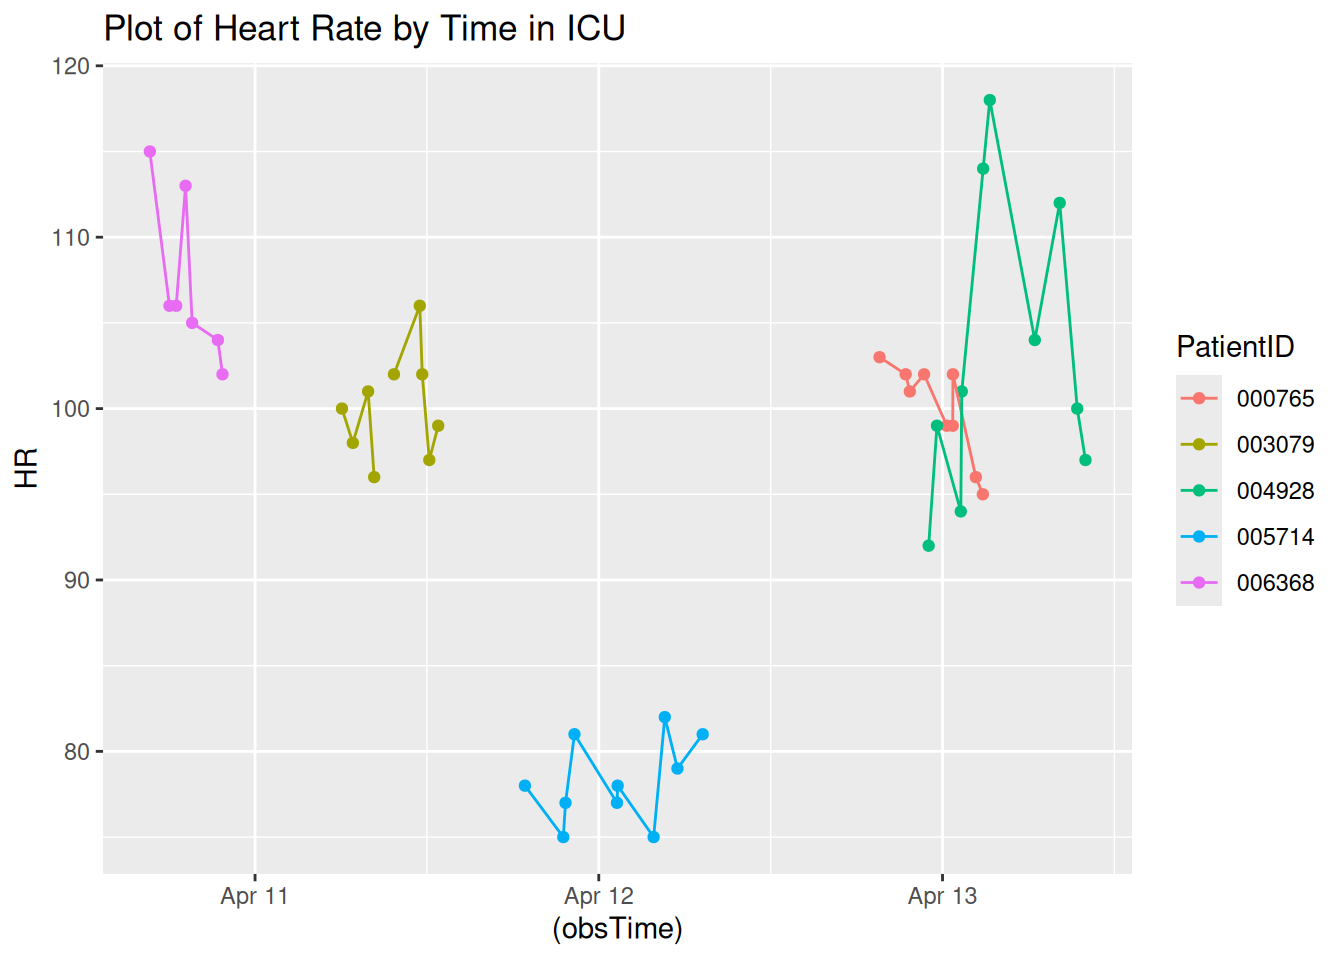
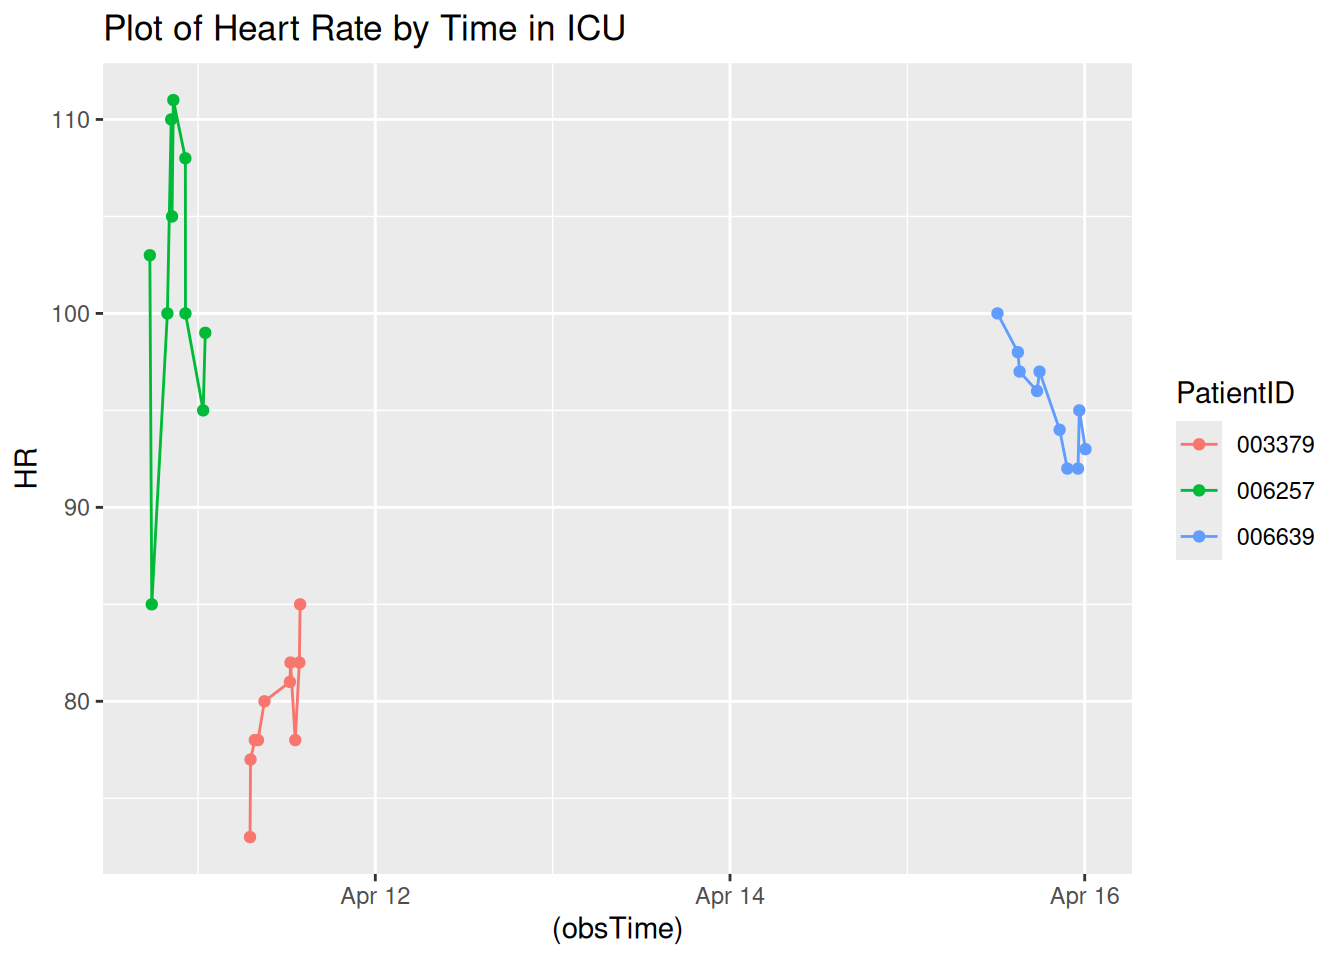
Updated report

diff --git a/A7.html b/A7.html
@@ -116,7 +116,7 @@ pre > code.sourceCode > span > a:first-child::before { text-decoration: underlin
 </div>
 <div class="sourceCode cell-code" id="cb4"><pre class="sourceCode r code-with-copy"><code class="sourceCode r"><span id="cb4-1"><a href="#cb4-1" aria-hidden="true" tabindex="-1"></a><span class="fu">toc</span>()</span></code><button title="Copy to Clipboard" class="code-copy-button"><i class="bi"></i></button></pre></div>
 <div class="cell-output cell-output-stdout">
-<pre><code>21.206 sec elapsed</code></pre>
+<pre><code>23.488 sec elapsed</code></pre>
 </div>
 <div class="sourceCode cell-code" id="cb6"><pre class="sourceCode r code-with-copy"><code class="sourceCode r"><span id="cb6-1"><a href="#cb6-1" aria-hidden="true" tabindex="-1"></a><span class="fu">tic</span>()</span>
 <span id="cb6-2"><a href="#cb6-2" aria-hidden="true" tabindex="-1"></a>test1<span class="ot">=</span><span class="fu">makeSepsisDataset</span>(<span class="at">n=</span><span class="dv">50</span>,<span class="at">read_fn =</span> <span class="st">"read_delim"</span>)</span>
@@ -126,7 +126,7 @@ pre > code.sourceCode > span > a:first-child::before { text-decoration: underlin
 </div>
 <div class="sourceCode cell-code" id="cb8"><pre class="sourceCode r code-with-copy"><code class="sourceCode r"><span id="cb8-1"><a href="#cb8-1" aria-hidden="true" tabindex="-1"></a><span class="fu">toc</span>()</span></code><button title="Copy to Clipboard" class="code-copy-button"><i class="bi"></i></button></pre></div>
 <div class="cell-output cell-output-stdout">
-<pre><code>20.615 sec elapsed</code></pre>
+<pre><code>20.689 sec elapsed</code></pre>
 </div>
 <div class="sourceCode cell-code" id="cb10"><pre class="sourceCode r code-with-copy"><code class="sourceCode r"><span id="cb10-1"><a href="#cb10-1" aria-hidden="true" tabindex="-1"></a><span class="co"># n=100</span></span>
 <span id="cb10-2"><a href="#cb10-2" aria-hidden="true" tabindex="-1"></a><span class="fu">tic</span>()</span>
@@ -137,7 +137,7 @@ pre > code.sourceCode > span > a:first-child::before { text-decoration: underlin
 </div>
 <div class="sourceCode cell-code" id="cb12"><pre class="sourceCode r code-with-copy"><code class="sourceCode r"><span id="cb12-1"><a href="#cb12-1" aria-hidden="true" tabindex="-1"></a><span class="fu">toc</span>()</span></code><button title="Copy to Clipboard" class="code-copy-button"><i class="bi"></i></button></pre></div>
 <div class="cell-output cell-output-stdout">
-<pre><code>40.403 sec elapsed</code></pre>
+<pre><code>38.612 sec elapsed</code></pre>
 </div>
 <div class="sourceCode cell-code" id="cb14"><pre class="sourceCode r code-with-copy"><code class="sourceCode r"><span id="cb14-1"><a href="#cb14-1" aria-hidden="true" tabindex="-1"></a><span class="fu">tic</span>()</span>
 <span id="cb14-2"><a href="#cb14-2" aria-hidden="true" tabindex="-1"></a>test1<span class="ot">=</span><span class="fu">makeSepsisDataset</span>(<span class="at">n=</span><span class="dv">100</span>,<span class="at">read_fn =</span> <span class="st">"read_delim"</span>)</span>
@@ -147,7 +147,7 @@ pre > code.sourceCode > span > a:first-child::before { text-decoration: underlin
 </div>
 <div class="sourceCode cell-code" id="cb16"><pre class="sourceCode r code-with-copy"><code class="sourceCode r"><span id="cb16-1"><a href="#cb16-1" aria-hidden="true" tabindex="-1"></a><span class="fu">toc</span>()</span></code><button title="Copy to Clipboard" class="code-copy-button"><i class="bi"></i></button></pre></div>
 <div class="cell-output cell-output-stdout">
-<pre><code>41.297 sec elapsed</code></pre>
+<pre><code>39.909 sec elapsed</code></pre>
 </div>
 <div class="sourceCode cell-code" id="cb18"><pre class="sourceCode r code-with-copy"><code class="sourceCode r"><span id="cb18-1"><a href="#cb18-1" aria-hidden="true" tabindex="-1"></a><span class="co"># n=500</span></span>
 <span id="cb18-2"><a href="#cb18-2" aria-hidden="true" tabindex="-1"></a><span class="fu">tic</span>()</span>
@@ -158,7 +158,7 @@ pre > code.sourceCode > span > a:first-child::before { text-decoration: underlin
 </div>
 <div class="sourceCode cell-code" id="cb20"><pre class="sourceCode r code-with-copy"><code class="sourceCode r"><span id="cb20-1"><a href="#cb20-1" aria-hidden="true" tabindex="-1"></a><span class="fu">toc</span>()</span></code><button title="Copy to Clipboard" class="code-copy-button"><i class="bi"></i></button></pre></div>
 <div class="cell-output cell-output-stdout">
-<pre><code>200.4 sec elapsed</code></pre>
+<pre><code>189.718 sec elapsed</code></pre>
 </div>
 <div class="sourceCode cell-code" id="cb22"><pre class="sourceCode r code-with-copy"><code class="sourceCode r"><span id="cb22-1"><a href="#cb22-1" aria-hidden="true" tabindex="-1"></a><span class="fu">tic</span>()</span>
 <span id="cb22-2"><a href="#cb22-2" aria-hidden="true" tabindex="-1"></a>test1<span class="ot">=</span><span class="fu">makeSepsisDataset</span>(<span class="at">n=</span><span class="dv">500</span>,<span class="at">read_fn =</span> <span class="st">"read_delim"</span>)</span>
@@ -168,7 +168,7 @@ pre > code.sourceCode > span > a:first-child::before { text-decoration: underlin
 </div>
 <div class="sourceCode cell-code" id="cb24"><pre class="sourceCode r code-with-copy"><code class="sourceCode r"><span id="cb24-1"><a href="#cb24-1" aria-hidden="true" tabindex="-1"></a><span class="fu">toc</span>()</span></code><button title="Copy to Clipboard" class="code-copy-button"><i class="bi"></i></button></pre></div>
 <div class="cell-output cell-output-stdout">
-<pre><code>207.36 sec elapsed</code></pre>
+<pre><code>199.828 sec elapsed</code></pre>
 </div>
 </div>
 <p><strong>Task 3</strong></p>
@@ -194,7 +194,7 @@ pre > code.sourceCode > span > a:first-child::before { text-decoration: underlin
 <span id="cb28-4"><a href="#cb28-4" aria-hidden="true" tabindex="-1"></a></span>
 <span id="cb28-5"><a href="#cb28-5" aria-hidden="true" tabindex="-1"></a><span class="fu">Sys.time</span>()</span></code><button title="Copy to Clipboard" class="code-copy-button"><i class="bi"></i></button></pre></div>
 <div class="cell-output cell-output-stdout">
-<pre><code>[1] "2025-04-10 16:39:18 UTC"</code></pre>
+<pre><code>[1] "2025-04-10 17:29:19 UTC"</code></pre>
 </div>
 <div class="sourceCode cell-code" id="cb30"><pre class="sourceCode r code-with-copy"><code class="sourceCode r"><span id="cb30-1"><a href="#cb30-1" aria-hidden="true" tabindex="-1"></a>dfnew <span class="ot">&lt;-</span> df <span class="sc">%&gt;%</span></span>
 <span id="cb30-2"><a href="#cb30-2" aria-hidden="true" tabindex="-1"></a>  <span class="fu">subset</span>(SepsisLabel<span class="sc">==</span><span class="dv">1</span>)</span>
@@ -223,49 +223,31 @@ pre > code.sourceCode > span > a:first-child::before { text-decoration: underlin
 </thead>
 <tbody>
 <tr class="odd">
-<td style="text-align: left;">000765</td>
-<td style="text-align: right;">60</td>
-<td style="text-align: right;">95</td>
+<td style="text-align: left;">003379</td>
+<td style="text-align: right;">21</td>
+<td style="text-align: right;">85</td>
 <td style="text-align: right;">NA</td>
 <td style="text-align: right;">32</td>
 <td style="text-align: right;">1</td>
-<td style="text-align: left;">2025-04-13 02:48:52</td>
+<td style="text-align: left;">2025-04-11 13:49:32</td>
 </tr>
 <tr class="even">
-<td style="text-align: left;">003079</td>
-<td style="text-align: right;">21</td>
+<td style="text-align: left;">006257</td>
+<td style="text-align: right;">9</td>
 <td style="text-align: right;">99</td>
-<td style="text-align: right;">37.89</td>
-<td style="text-align: right;">25</td>
+<td style="text-align: right;">36.83</td>
+<td style="text-align: right;">15</td>
 <td style="text-align: right;">1</td>
-<td style="text-align: left;">2025-04-11 12:47:23</td>
+<td style="text-align: left;">2025-04-11 00:59:27</td>
 </tr>
 <tr class="odd">
-<td style="text-align: left;">004928</td>
-<td style="text-align: right;">66</td>
-<td style="text-align: right;">97</td>
+<td style="text-align: left;">006639</td>
+<td style="text-align: right;">127</td>
+<td style="text-align: right;">93</td>
 <td style="text-align: right;">NA</td>
-<td style="text-align: right;">24</td>
+<td style="text-align: right;">28</td>
 <td style="text-align: right;">1</td>
-<td style="text-align: left;">2025-04-13 09:58:52</td>
-</tr>
-<tr class="even">
-<td style="text-align: left;">005714</td>
-<td style="text-align: right;">39</td>
-<td style="text-align: right;">81</td>
-<td style="text-align: right;">NA</td>
-<td style="text-align: right;">22</td>
-<td style="text-align: right;">1</td>
-<td style="text-align: left;">2025-04-12 07:15:21</td>
-</tr>
-<tr class="odd">
-<td style="text-align: left;">006368</td>
-<td style="text-align: right;">6</td>
-<td style="text-align: right;">102</td>
-<td style="text-align: right;">NA</td>
-<td style="text-align: right;">19</td>
-<td style="text-align: right;">1</td>
-<td style="text-align: left;">2025-04-10 21:43:39</td>
+<td style="text-align: left;">2025-04-16 00:06:12</td>
 </tr>
 </tbody>
 </table>
